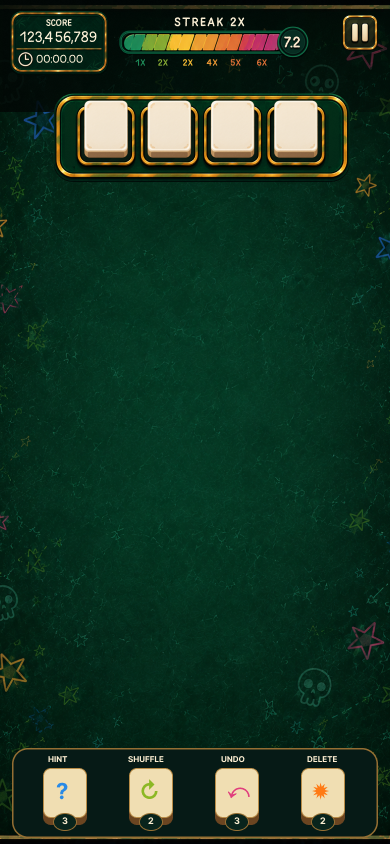
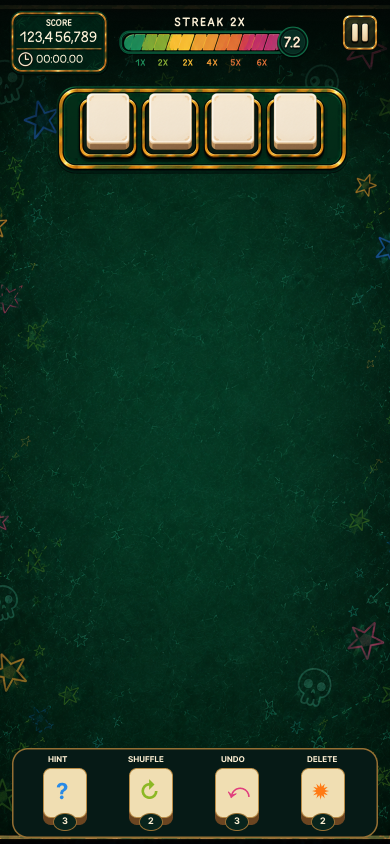
Update queue art and Momentum tiers

Changed region(s): [[0.0615, 0.0924, 0.8923, 0.2156], [0.4923, 0.0, 1.0, 0.0308], [0.0, 0.0924, 0.0615, 0.1232]]

diff --git a/docs/FIGMA_PORTRAIT_UI.md b/docs/FIGMA_PORTRAIT_UI.md
@@ -12,13 +12,13 @@ Full-resolution component exports and the reference-frame capture live under:
 art-source/ui/portrait/
 ```
 
-Optimized Godot runtime exports live under:
+Optimized Godot runtime exports generally live under:
 
 ```text
 game-assets/ui/portrait/
 ```
 
-Runtime exports include the gameplay background, score box, Momentum frame/fill/badge, pause button, and composable queue cap/repeat artwork. Imported copies of the queue's blank tile and the provisional consumable-count artwork are retained but not wired into the shell: the live tray must render the same tile instances as the Board, and the consumable drawer intentionally retains its current placeholders.
+Runtime exports include the gameplay background, score box, Momentum frame/fill/badge, and pause button. The supplied composable queue artwork lives under `assets/UI/tile-queue/`; `queue-cap.png` is mirrored for the right edge and `queue-repeat.png` owns each complete empty-slot presentation. Older imported queue references under `game-assets/ui/portrait/` are not wired into the shell. The live tray must render the same tile instances as the Board, and the consumable drawer intentionally retains its current placeholders.
 
 Mila Script Sans Regular and Bold TTF files live under `assets/fonts/`. Godot uses Regular for values and Bold for headings, multiplier emphasis, and tick labels. WOFF2 files are retained alongside the supplied artwork package but are not loaded at runtime. No font license document was supplied with these files; redistribution rights must be confirmed before a public release.
 
@@ -37,11 +37,11 @@ Runtime UI:
 - score heading, value, and elapsed timer;
 - Combo/Streak readout;
 - Momentum fill width and visible decay;
-- multiplier ticks and current multiplier;
+- seven multiplier upgrade ticks (`x2` through `x8`) and the current multiplier; `x1` remains the unlabeled default;
 - live tray tiles and modifiers;
 - pause interaction.
 
-The Momentum fill is clipped inside the exported frame and scales horizontally from simulation state. The queue is assembled from a left cap, one repeated section per active capacity, and a mirrored right cap. It supports capacities from two through six while the reference game remains at four.
+The Momentum fill is clipped inside the exported frame and scales horizontally from simulation state. The queue is assembled from a left cap, one repeated section per active capacity, and a mirrored right cap. The exported repeat artwork owns the complete empty-slot appearance; Godot slot controls remain transparent positioning and animation targets until they contain a live Board tile. The queue supports capacities from two through six while the reference game remains at four.
 
 ## Responsive Contract
 
@@ -53,7 +53,7 @@ Portrait layout is resolved inside the safe-area content rectangle:
 4. The existing Board consumes the flexible middle region.
 5. The existing compact consumables drawer stays above the bottom safe area.
 
-The portrait HUD, margins, queue allocation, and bottom drawer scale from the `390 x 844` reference composition. Scale uses the smaller ratio of safe display width to reference width and safe display height to reference height, so the complete HUD grows on high-resolution displays without overflowing shorter or wider portrait devices. It does not rotate or rearrange the portrait-authored board. Landscape keeps the established split-side shell until a separate landscape visual source is approved.
+The portrait HUD, margins, queue allocation, and bottom drawer scale from the `390 x 844` reference composition. Scale uses the smaller ratio of safe display width to reference width and safe display height to reference height, so the complete HUD grows on high-resolution displays without overflowing shorter or wider portrait devices. The score remains left-aligned, pause remains right-aligned, and the Momentum frame is positioned independently so its center always matches the safe display's horizontal center. It does not rotate or rearrange the portrait-authored board. Landscape keeps the established split-side shell until a separate landscape visual source is approved.
 
 ## First-Pass Gaps
 

diff --git a/AGENTS.md b/AGENTS.md
@@ -60,6 +60,9 @@ Project-level instructions for Codex working on Battle Mahjong.
 - The Default skin has orientation-specific supplied ceramic bases: tall in portrait and wide in landscape. The active base, face safe area, board footprint, tray footprint, and animation previews change together without changing stable layout slots or simulation rules.
 - The M3 scoring model uses a mistake-driven Combo chain. Natural pairs extend Combo; ordinary unmatched selections and elapsed time preserve it; live locked-tile taps and successful consumables break it through replay-safe transactions. Combo remains separate from the pair-difficulty score reward.
 - The M7 portrait HUD uses exported Figma artwork from `gameplay-portrait-components-v1` (`68:2`) with runtime Mila Script Sans text, clipped Momentum fill, a square pause control, and a composable two-to-six-slot queue. The complete portrait composition scales from its `390 x 844` reference using the limiting safe-display dimension. Full-resolution exports live under `art-source/ui/portrait/`; optimized assets live under `game-assets/ui/portrait/`. Landscape retains the existing split-side shell.
+- The portrait queue's canonical runtime pieces are `assets/UI/tile-queue/queue-cap.png` and `queue-repeat.png`. Mirror the cap for the right edge; do not draw a separate empty-slot panel over the repeat artwork. Godot slots remain transparent geometry for live tiles and animation targets.
+- In portrait, the Momentum frame is independently centered on the safe display width and scales with the responsive HUD reference; do not center the combined score-plus-Momentum container.
+- Momentum uses eight gameplay tiers: unlabeled default `x1` plus seven visible HUD upgrades `x2` through `x8`. Default thresholds are spaced every `12500` units; a fast natural pair advances approximately one tier under the default tuning.
 - Deterministic tile and pair difficulty analysis runs before each accepted natural selection and records derived transaction telemetry. The provisional geometry-only formula is documented in `docs/PAIR_DIFFICULTY.md`; it must remain orientation- and skin-independent and must not affect rewards until playtest validation.
 - Cross-game state boundaries are documented in `docs/PLAYER_PROFILE.md`. M9 will implement local profiles and a durable game library before replay presentation, game modes, backend work, or progression.
 

diff --git a/docs/CORE_GAMEPLAY.md b/docs/CORE_GAMEPLAY.md
@@ -67,10 +67,10 @@ Stopping to search causes momentum to fall.
 Status: Decided for the initial M3 tuning baseline
 
 - Momentum uses integer units from `0` to `100000`.
-- An accepted natural tile selection adds `2500` units; Undo removes the actual gain from the compensated selection after normal decay.
-- A pair adds `30000` units.
-- Thresholds at `0`, `20000`, `40000`, `60000`, and `80000` produce `x1` through `x5`.
-- Tier decay rates are `5`, `7`, `10`, `14`, and `19` units per millisecond, making higher tiers harder to maintain.
+- An accepted natural tile selection adds `2000` units; Undo removes the actual gain from the compensated selection after normal decay.
+- A pair adds `10000` units. Together with two fast selections, a clean pair advances approximately one multiplier tier.
+- `x1` is the unlabeled default. Thresholds every `12500` units produce the seven visible upgrades `x2` through `x8`.
+- Tier decay rates are `5`, `6`, `7`, `9`, `11`, `14`, `17`, and `21` units per millisecond, making higher tiers progressively harder to maintain.
 - A pair scores `100 * current multiplier` before the completing selection's gain, then selection and pair gains build the multiplier for later pairs.
 
 These values are stored in game configuration and remain provisional pending playtesting.
